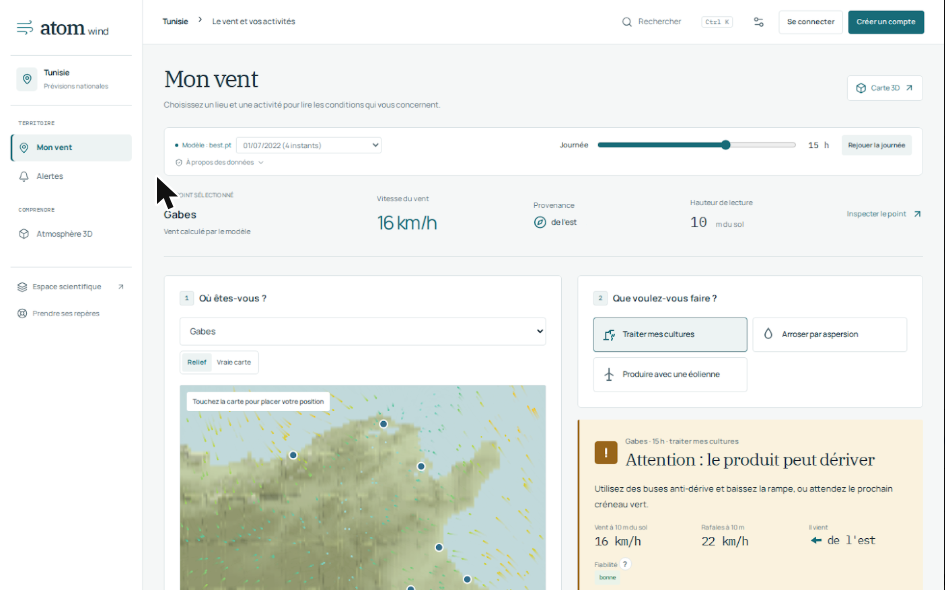
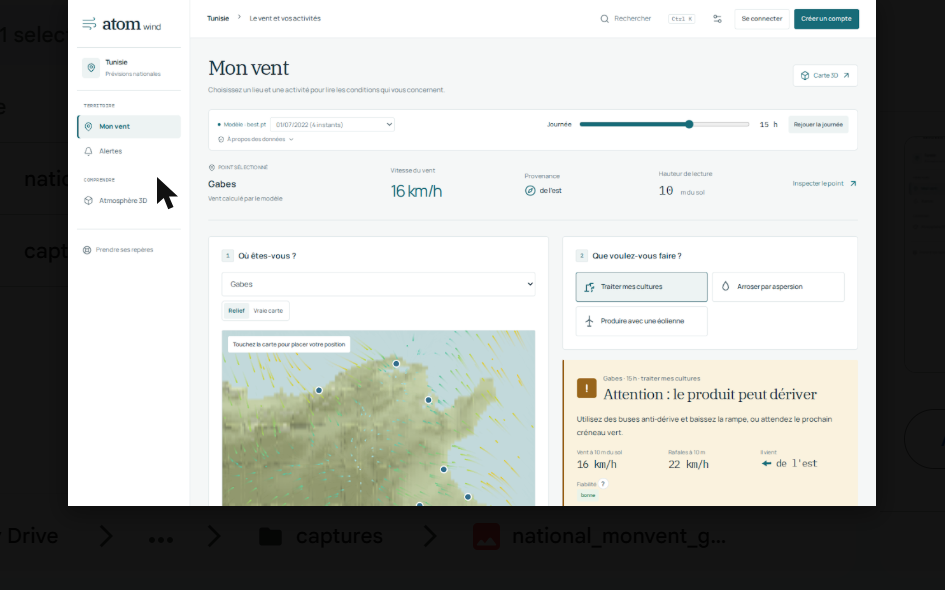
B7 : captures Sfax et Reseau ANEO dans docs/demo ; note OS5 a jour (front-end fusionne, carte nationale du modele)

diff --git a/docs/resultats/national/os5_service.md b/docs/resultats/national/os5_service.md
@@ -73,8 +73,16 @@ Limites restantes, constatées sur les captures :
 - carte 3D : le relief ne se charge pas dans Chromium headless (WebGL logiciel) : à capturer depuis
   un vrai navigateur.
 
-`docs/demo/` : `os5_national_gafsa.png`, `os5_national_tozeur.png`, `os5_national_gabes.png`,
-`os5_grand_tunis_tunis.png` (copies d'écran de l'aperçu Drive des PNG produits sur Colab ; les
+Mise à jour du 15/11 au soir (carnet `5d2e0ee`, front-end d'Ines `verif-app-mahdi` fusionné, L4) :
+Sfax est maintenant capturée correctement (point et réponse « Sfax », 16 km/h du sud-est) ; l'onglet
+« Réseau ANEO » s'affiche avec une clé admin temporaire (plan OS4, 400 capteurs, nombre recommandé
+« non atteint ») ; la carte 3D reste en « Chargement du terrain » en mode headless. La carte nationale
+de la vue 3D lit désormais le modèle national (commit `f459dd2`). DSO4 sur cette L4 : national
+0,997 s, Grand Tunis 1,103 s (le fichier `os5/dso4_service.json` du Drive contient ce dernier run L4 ;
+les chiffres A100 sont ceux du tableau ci-dessus).
+
+`docs/demo/` : `os5_national_sfax.png`, `os5_national_gafsa.png`, `os5_national_tozeur.png`,
+`os5_national_gabes.png`, `os5_national_reseau_aneo.png`, `os5_grand_tunis_tunis.png` (copies d'écran de l'aperçu Drive des PNG produits sur Colab ; les
 originaux 1440 × 900 sont dans `MyDrive/pcfno3d_national/os5/captures/`).
 
 Adresse publique : atom.zelqane.com sert encore l'ancien front-end du Worker (déploiement de Rayen) ;
